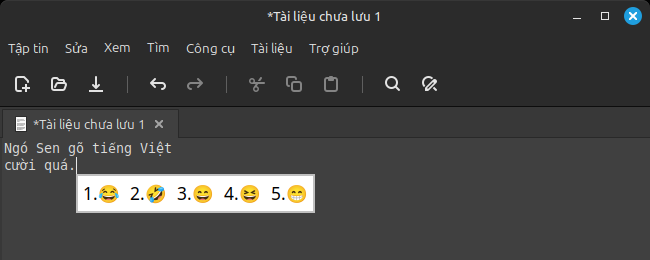
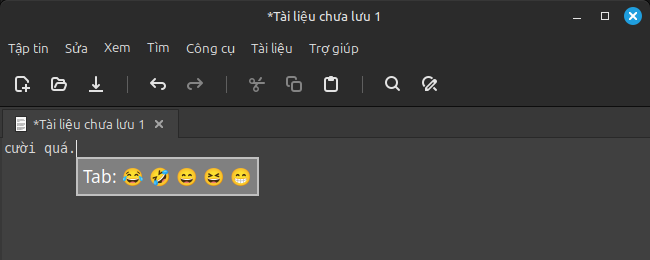
feat: publish release 1.14.1-1
Add the 1.14.1-1 entry and bring the emoji guide, mode menu guide,
highlights and /en/ in line with emoji being off until turned on per app.
The bug report guide links the new AI usage guide.

Tested: Mint 22.1 Cinnamon VM, released noble package, xed: the guide's
emoji steps give the text and screens shown; new screenshots from that run.

Changed region(s): [[0.0, 0.5231, 0.4923, 0.8308], [0.4923, 0.2769, 0.5231, 0.3692]]

diff --git a/src/data/site.ts b/src/data/site.ts
@@ -33,6 +33,109 @@ export const RELEASES: {
   prRepo?: string;
 }[] = [
   {
+    version: '1.14.1-1',
+    date: '24/11/2026',
+    summary:
+      'Trên voz.vn với Brave, KDE Wayland, gõ nhanh và sửa dấu không còn làm chữ chen giữa từ, mất chữ hoặc xoá lố; gõ đè chữ bôi đen không còn ra phím thô, và phím gõ lúc ô vừa xoá trống không còn chạy lên trước. Firefox không còn mất chữ khi gõ ngay trước một link; bản Flatpak trên GNOME Wayland không còn mất dấu thanh khi gõ nhanh sau một lần sửa. Với bảng mã Unicode tổ hợp, terminal bash/fish không còn mất chữ trước dấu thanh như “nhiều” thành “nhều”. Telex gõ “booots” ra đúng “boots”; gõ kéo dài nay chỉ giữ dấu ở chữ đầu, như “afaaa” ra “àaaa” thay vì “àààà”, giống UniKey. Emoji nay tắt sẵn ở mọi app, bật từng app bằng “\\`” rồi “w”; cửa sổ cài đặt có danh sách “App đã bật emoji”. Danh sách emoji tự ẩn sau 4 giây để yên, và số gõ khi danh sách vừa hiện được nhập như thường, phải bấm Tab trước mới chọn bằng số. “Lưu nhật ký gõ” nay giữ khoảng nửa phút gõ gần nhất trong trình duyệt thay vì 7 giây, giúp giữ đủ log khi báo lỗi. Có thêm trang hướng dẫn để hỏi AI cách dùng Ngó Sen, từ menu phím “\\`” đến các tính năng và cài đặt.',
+    changes: [
+      {
+        claim: 'Thêm trang hướng dẫn để hỏi AI cách dùng Ngó Sen, từ menu phím “\\`” đến các tính năng và cài đặt; trang tìm lỗi gõ cũng dặn AI không đọc mã nguồn để tìm cách sửa và có link sang hướng dẫn mới.',
+        source: 'Trang nằm ở “docs/ai-guide.md” trong repo Ngó Sen.',
+        pr: 983,
+      },
+      {
+        claim: 'Gợi ý emoji nay tắt sẵn ở mọi app; bấm “\\`” rồi “w” để bật cho từng app muốn dùng, như Teencode. Danh sách app đã tắt emoji trước đây không còn dùng; trong cửa sổ cài đặt, mục Emoji nay liệt kê “App đã bật emoji”.',
+        source: '',
+        pr: 969,
+      },
+      {
+        claim: 'Danh sách gợi ý emoji tự ẩn khi để yên 4 giây không bấm phím nào.',
+        source: '',
+        pr: 973,
+      },
+      {
+        claim: 'Gõ kéo dài chữ nay chỉ giữ dấu ở chữ đầu, các chữ lặp sau để trơn cho dễ đọc: “afaaa” ra “àaaa” thay vì “àààà”, như UniKey.',
+        source: 'Gồm #980.',
+        pr: 852,
+      },
+      {
+        claim: 'Telex: phím dấu gõ ngay sau một phím lặp để bỏ dấu không còn làm hiện lại chữ đã bỏ (“booots” ra “boots” thay vì “booots”, “roooms” ra “rooms”).',
+        source: '',
+        pr: 976,
+      },
+      {
+        claim: '“Lưu nhật ký gõ” nay giữ khoảng nửa phút gõ gần nhất trong trình duyệt thay vì 7 giây, để lỗi vẫn còn trong nhật ký gõ khi lưu ngay sau đó.',
+        source: '',
+        pr: 953,
+      },
+      {
+        claim: 'Gõ Sen: chữ đầu tiên có gợi ý emoji sau khi bật máy không còn sai trong terminal VS Code chạy X11 (“chào” ra “chaà”); bảng xem trước emoji nay hiện sau khi chữ đã vào app.',
+        source: '',
+        pr: 960,
+      },
+      {
+        claim: 'Gõ Sen trên voz.vn (Brave, KDE Wayland): chữ gõ nhanh ngay sau phím dấu không còn chen vào giữa từ (“ngyà” ra “ngày”, “ngfươi” ra “người”).',
+        source: '',
+        pr: 964,
+      },
+      {
+        claim: 'Gõ Sen trên voz.vn (Brave, KDE Wayland): gõ đè lên chữ đang bôi đen (Ctrl+A rồi gõ) không còn ra phím thô (“nguowfi” ra “người”).',
+        source: '',
+        pr: 967,
+      },
+      {
+        claim: 'Gõ Sen trên voz.vn (Brave, KDE Wayland): từ đầu bài mà sửa dấu phải xoá hết chữ trong ô không còn mất chữ (“đồng” ra “òng”).',
+        source: '',
+        pr: 971,
+      },
+      {
+        claim: 'Gõ Sen trên voz.vn (Brave, KDE Wayland): phím bấm đúng lúc ô vừa bị xoá trống không còn chạy lên trước chữ (“đồng” ra “ođòng”).',
+        source: '',
+        pr: 972,
+      },
+      {
+        claim: 'Gõ Sen trên voz.vn (Brave, KDE Wayland): khi trang làm rơi một chữ gõ lúc phím trước chưa nhả, lần sửa dấu sau không còn xoá lố thêm một chữ (“đi đâu” ra “đi âu”, “học” ra “ọc”).',
+        source: '',
+        pr: 977,
+      },
+      {
+        claim: 'Gõ Sen trong Antigravity khi máy bận (màn hình 4K, CPU nặng): từ đang gõ không còn bị bắt đầu lại giữa chừng (“tiếng” ra “tieengs”).',
+        source: '',
+        pr: 974,
+      },
+      {
+        claim: 'Gõ Sen trong Gnumeric (KDE Wayland): bỏ dấu cho chữ đầu tiên của ô không còn sai (“oo” ra “oô” hoặc “o”, “ee” ra “eê”) và ít phải chờ hơn.',
+        source: '',
+        pr: 978,
+      },
+      {
+        claim: 'Gõ Sen với bảng mã “Unicode tổ hợp”: gõ trong terminal chạy bash hay fish không còn mất chữ trước dấu thanh (“nhiều” ra “nhều”). Trong terminal, từ đang gõ hiện ở dạng dựng sẵn, gõ xong từ mới đổi sang dạng tổ hợp; trình soạn thảo vẫn giữ dạng tổ hợp như trước.',
+        source: '',
+        pr: 952,
+      },
+      {
+        claim: 'Gợi ý emoji: số gõ ngay sau khi danh sách emoji hiện ra nay được gõ ra như thường; bấm Tab trước rồi mới chọn emoji bằng số, như sau một từ.',
+        source: '',
+        pr: 968,
+      },
+      {
+        claim: 'Bấm Ctrl+Shift chậm vẫn đổi được Anh/Việt: giữ tới một giây vẫn tính. Trước đây trên fcitx5 bản mới, nhả phím sau quá 1/4 giây là Ctrl+Shift không có tác dụng.',
+        source: '',
+        pr: 966,
+      },
+      {
+        claim: 'Gõ Sen trong Firefox: gõ ngay trước một đường link (như link file đính kèm khi sửa comment trên GitHub) không còn mất chữ trước dấu (“Gõ” ra “õ”, “tiếng” ra “tếng”).',
+        source: '',
+        pr: 970,
+      },
+      {
+        claim: 'Gõ Sen trong Firefox Flatpak trên GNOME Wayland: gõ nhanh không còn mất dấu thanh ngay sau một lần sửa chữ (“được” ra “đưc”).',
+        source: '',
+        pr: 975,
+      },
+    ],
+  },
+  {
     version: '1.14.0-1',
     date: '22/11/2026',
     summary:
@@ -2216,7 +2319,7 @@ export const HIGHLIGHTS: { title: string; text: string }[] = [
   },
   {
     title: 'Menu chế độ riêng cho từng app',
-    text: 'Bấm phím ` để mở menu cạnh con trỏ, chọn Gõ Sen (1), Gạch chân (q) hoặc Tắt (e), tắt Gợi ý emoji (w) cho app không cần, và bật Vim mode (v) cho app dùng phím Vim như nvim hay Claude Code. Ngó Sen nhớ lựa chọn riêng cho từng app.',
+    text: 'Bấm phím ` để mở menu cạnh con trỏ, chọn Gõ Sen (1), Gạch chân (q) hoặc Tắt (e), bật Gợi ý emoji (w) cho app muốn dùng, và bật Vim mode (v) cho app dùng phím Vim như nvim hay Claude Code. Ngó Sen nhớ lựa chọn riêng cho từng app.',
   },
   {
     title: 'Phím chuyển Anh/Việt riêng',
@@ -2240,7 +2343,7 @@ export const HIGHLIGHTS: { title: string; text: string }[] = [
   },
   {
     title: 'Gợi ý emoji khi gõ',
-    text: 'Gõ xong cười, con mèo hay haha là hiện Tab: 😂 … cạnh con trỏ; Tab để đánh số rồi chọn bằng số, Esc giữ nguyên chữ.',
+    text: 'Tắt sẵn; bật cho từng app bằng Gợi ý emoji (w) trong menu `. Khi bật, gõ xong cười, con mèo hay haha là hiện Tab: 😂 … cạnh con trỏ; Tab để đánh số rồi chọn bằng số, Esc giữ nguyên chữ. Để yên 4 giây thì danh sách tự ẩn.',
   },
   {
     title: 'Chuyển mã',
